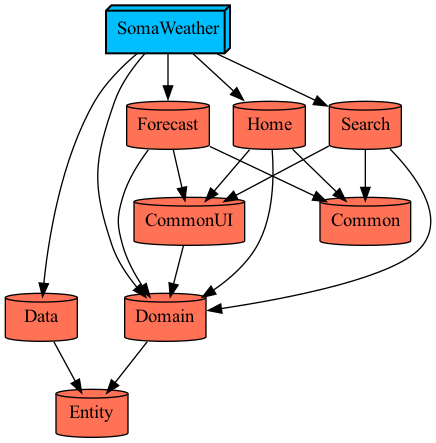
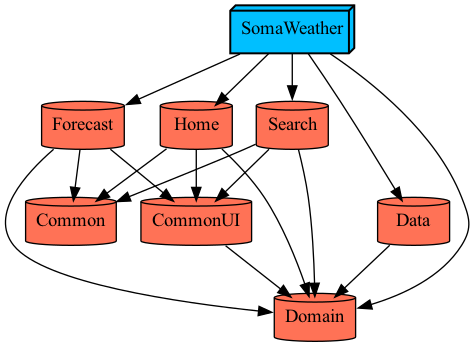
[SW-8] module refactor

diff --git a/Projects/Data/Project.swift b/Projects/Data/Project.swift
@@ -12,6 +12,7 @@ let project = Project.makeModule(
     name: "Data",
     product: .staticFramework,
     dependencies: [
+        .project(target: "Domain", path: .relativeToRoot("Projects/Domain")),
         .external(name: "Moya"),
         .external(name: "RxMoya")
     ],

diff --git a/README.md b/README.md
@@ -27,7 +27,7 @@
 
 ### Tuist Graph - 모듈 구조
 
-<p align="center"><img width="500" src="https://velog.velcdn.com/images/heyksw/post/1c4ab565-354c-424c-b648-9d73bf9542ed/image.png"></p>
+<p align="center"><img width="500" src="https://velog.velcdn.com/images/heyksw/post/f8dcbe6e-5715-4c8e-bd15-c32231cf3646/image.png"></p>
 
 - **SomaWeather (앱 모듈)**
   - DI 주입, Coordinator 패턴 구현 - 피쳐 모듈간 의존성 없이 화면 전환
@@ -55,7 +55,7 @@
 
 ### 아키텍처
 
-![](https://velog.velcdn.com/images/heyksw/post/e64dc759-ea73-4a82-a670-f65ad03cbbd0/image.png)
+![](https://velog.velcdn.com/images/heyksw/post/347d12e2-de6a-4e4e-a7ee-026941c0272b/image.png)
 
 
 
